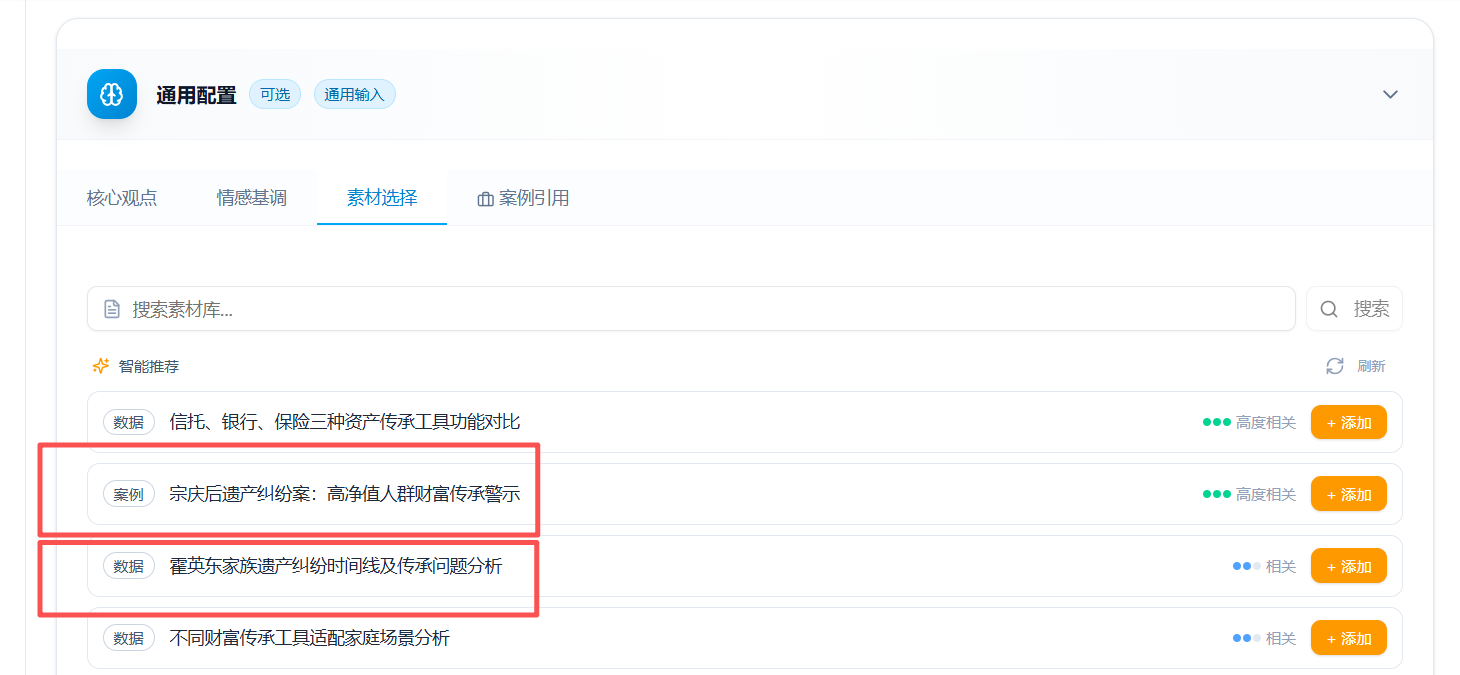
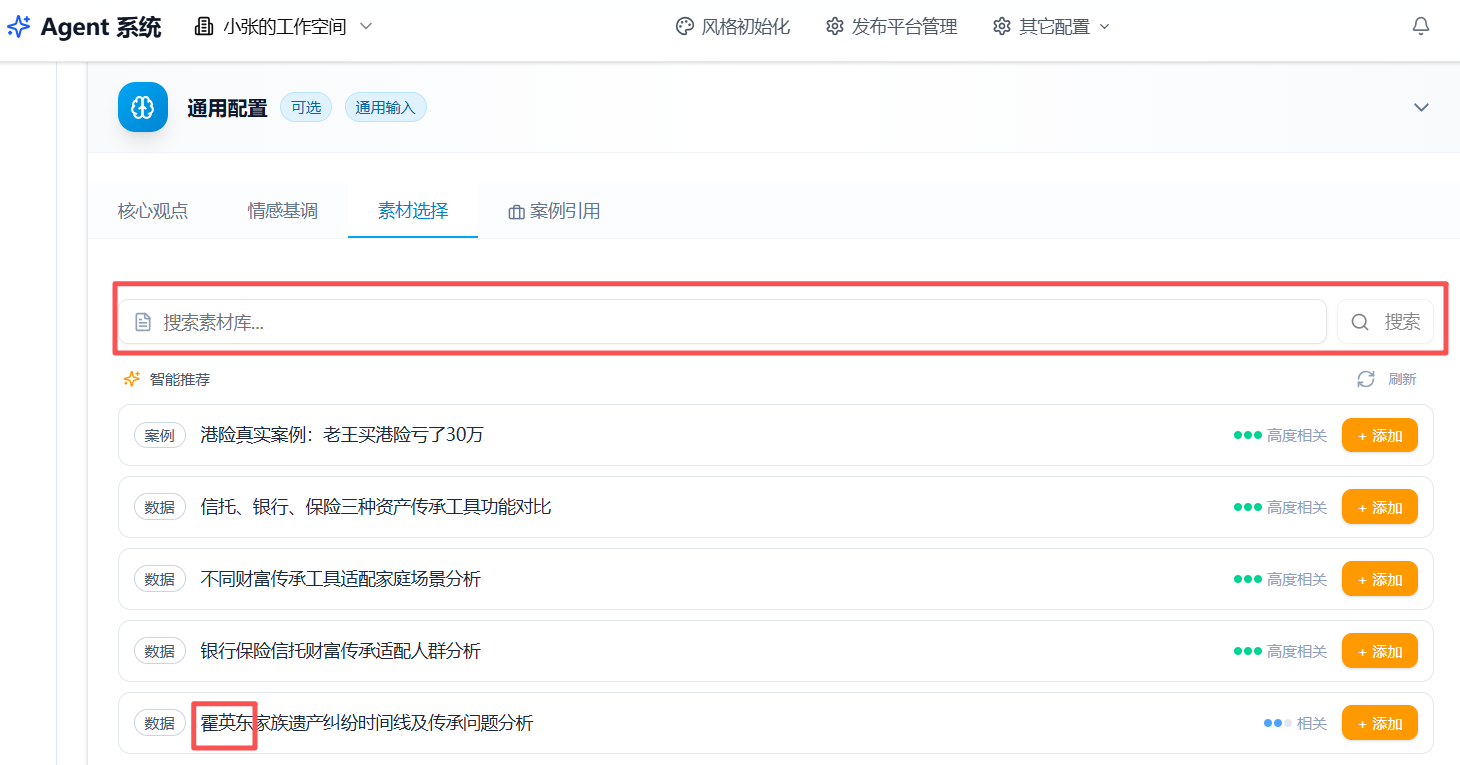
fix: 修复素材搜索"霍英东"无结果的问题（搜索结果被推荐列表去重过滤）

diff --git a/src/app/full-home/page.tsx b/src/app/full-home/page.tsx
@@ -755,10 +755,14 @@ export default function HomePage() {
     }, 500);
   }, []);
 
-  // 🔥 创作引导：预计算去重后的手动搜索结果（避免O(n²)重复filter）
+  // 🔥 创作引导：预计算搜索结果展示列表
+  // 修复：当用户主动搜索时，不去重推荐列表（用户明确搜索的内容应全部展示）
+  // 去重仅在无搜索时合并展示推荐+搜索时才有意义
   const filteredSearchMaterials = useMemo(() => 
-    materialSearchResults.filter((m) => !recommendedMaterials.some((r) => r.id === m.id)),
-    [materialSearchResults, recommendedMaterials]
+    materialSearchQuery.trim()
+      ? materialSearchResults  // 有搜索词：展示全部搜索结果，不去重
+      : materialSearchResults.filter((m) => !recommendedMaterials.some((r) => r.id === m.id)),
+    [materialSearchResults, recommendedMaterials, materialSearchQuery]
   );
 
   // 🔥 情感基调配置（集中管理，避免硬编码）
@@ -1038,7 +1042,7 @@ export default function HomePage() {
     }
     setMaterialSearchLoading(true);
     try {
-      const data: any = await apiGet(`/api/materials?search=${encodeURIComponent(query)}&limit=10`);
+      const data: any = await apiGet(`/api/materials?search=${encodeURIComponent(query)}&pageSize=20`);
       // API 返回 { success: true, data: { list: [...], pagination: {...} } }
       setMaterialSearchResults(Array.isArray(data?.data?.list) ? data.data.list : Array.isArray(data?.data) ? data.data : []);
     } catch (error) {
@@ -3196,7 +3200,7 @@ export default function HomePage() {
                             )}
 
                             {/* 状态B2：搜索无结果 → 显示互联网搜索按钮 */}
-                            {!materialSearchLoading && materialSearchQuery.trim() && filteredSearchMaterials.length === 0 && materialSearchResults.length === 0 && (
+                            {!materialSearchLoading && materialSearchQuery.trim() && filteredSearchMaterials.length === 0 && (
                               <div className="text-center py-4 bg-slate-50/50 rounded-lg border border-dashed border-slate-200">
                                 <p className="text-sm text-slate-400 mb-3">素材库未找到匹配素材</p>
                                 <button
